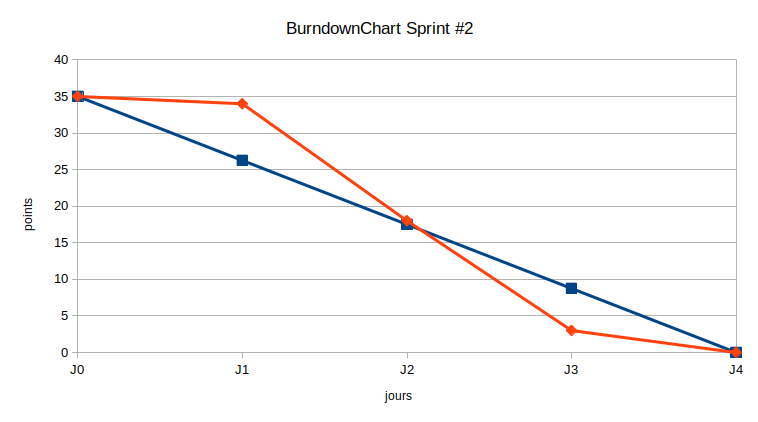
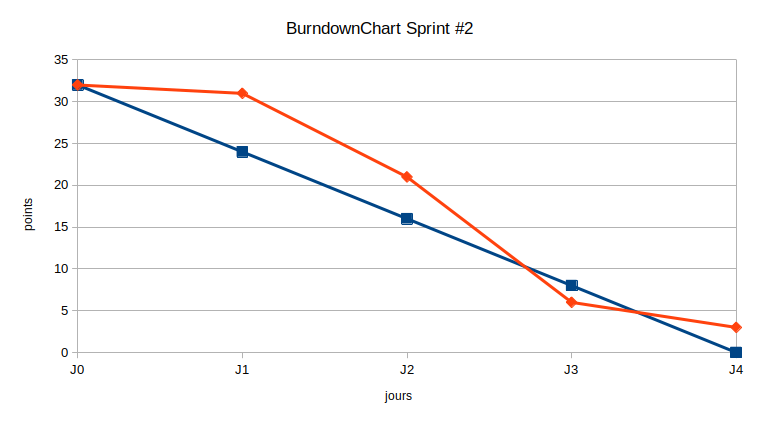
maj_scrum05

diff --git a/rapport_scrum.md b/rapport_scrum.md
@@ -126,7 +126,7 @@ Pour 4 jours de travail, nous avions retenu un total de 40 points pour le premie
 
 ### Sprint Backlog #2
 
-Pour ce second sprint, compte tenu des résultats du premier et après discussion sur le travail restant, nous choisi de retenir un total de 35 points à réaliser (au lieu de 32).
+Pour ce second sprint, compte tenu des résultats du premier, du temps restant (3,5j) et après discussion sur le travail restant, nous choisi de retenir un total de 32 points à réaliser.
 
 Les User Stories retenues pour ce second sprint sont les suivantes :
 
@@ -139,13 +139,17 @@ Je veux que mon projet soit accessible de partout | Général | 5 | En cours
 Je veux que mes services soient déployables facilement (Docker) | Général | 5 | En cours
 Je veux rendre compte de mes choix techniques | Général | 5| En cours
 Je veux rendre compte de l'application de ma méthodologie scrum | Général |5| En cours
-Je veux une api qui gère les codes erreurs NON PRIORITAIRE | API | 3 | En cours
 Je veux une api qui gère l'async | API | 1 | En cours
 
 
 <br>
 
 ### Sprint Review #2
+
+Un point de blocage important dès le deuxième jours du sprint nous a fait prendre du retard sur le planning. Ce bloquage était principalement dû à nos faibles connaissances en développement Frontend, et bien que la totalité de l'équipe ait été mobilisée sur le problème, nous n'avons pas pu le résoudre sans aide extérieure dans des délais raisonnables. <br>
+La résolution est intervenue en fin de journée grâce à l'aide d'un formateur.
+
+
 
 <br>
 
